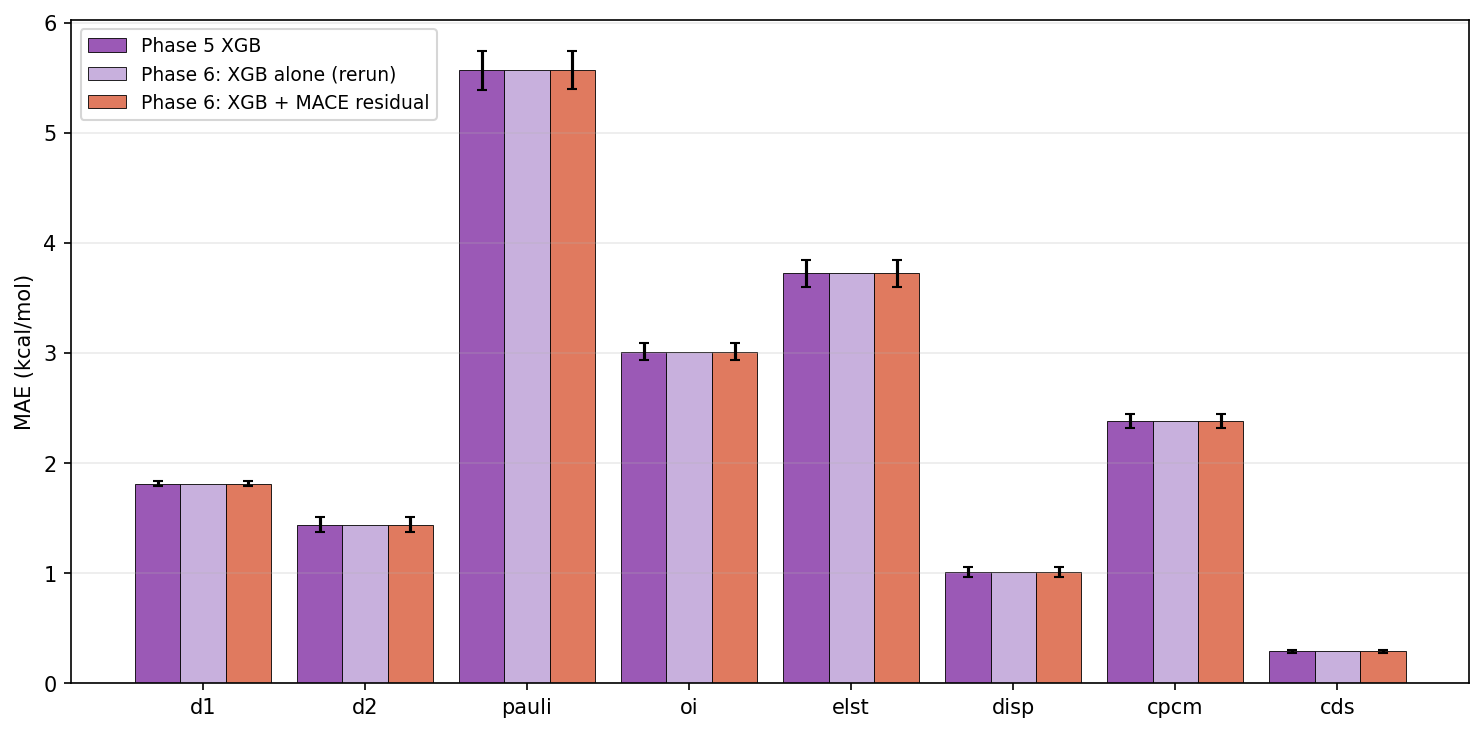
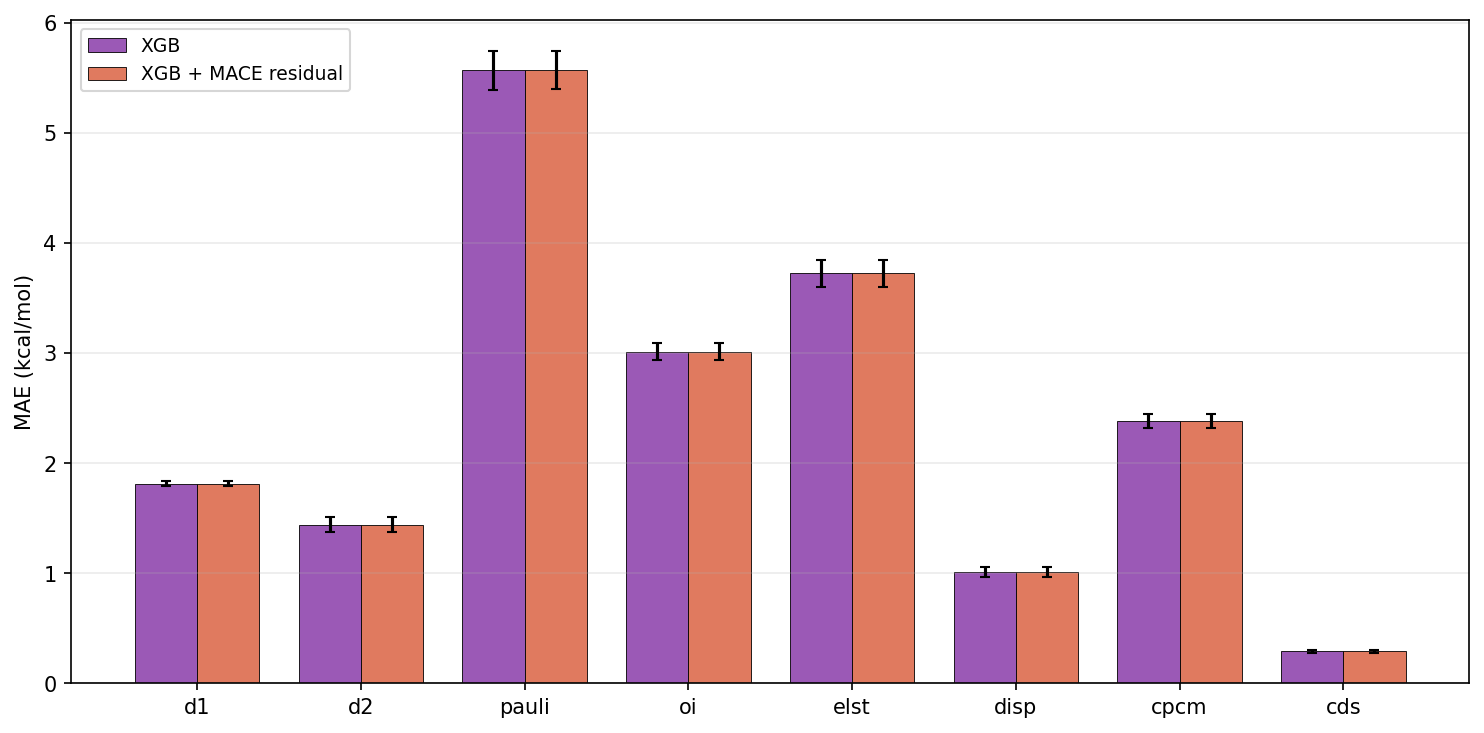
phase6 bars: drop rerun bar + strip 'Phase X' from legend
phase5_vs_phase6_bars.png now shows two bars per channel:
  XGB               (was 'Phase 5 XGB')
  XGB + MACE residual  (was 'Phase 6: XGB + MACE residual')

The redundant 'Phase 6: XGB alone (rerun)' bar (numerically identical to
Phase 5 XGB by construction) is removed.

diff --git a/analysis/bath1480_probe/experiments/scripts/10_aggregate_phase6.py b/analysis/bath1480_probe/experiments/scripts/10_aggregate_phase6.py
@@ -74,13 +74,11 @@ def main():
     # Bar plot
     fig, ax = plt.subplots(figsize=(10, 5))
     x = np.arange(len(CHANNELS))
-    w = 0.28
-    ax.bar(x - w, merged["mae_p5"], w, yerr=merged["mae_p5_std"], color="#9b59b6",
-           label="Phase 5 XGB", edgecolor="black", linewidth=0.4, capsize=2.5)
-    ax.bar(x, merged["mae_p6_xgb_only"], w, color="#c8b0dd",
-           label="Phase 6: XGB alone (rerun)", edgecolor="black", linewidth=0.4)
-    ax.bar(x + w, merged["mae_p6_full"], w, yerr=merged["mae_p6_full_std"], color="#e07a5f",
-           label="Phase 6: XGB + MACE residual", edgecolor="black", linewidth=0.4, capsize=2.5)
+    w = 0.38
+    ax.bar(x - w/2, merged["mae_p5"], w, yerr=merged["mae_p5_std"], color="#9b59b6",
+           label="XGB", edgecolor="black", linewidth=0.4, capsize=2.5)
+    ax.bar(x + w/2, merged["mae_p6_full"], w, yerr=merged["mae_p6_full_std"], color="#e07a5f",
+           label="XGB + MACE residual", edgecolor="black", linewidth=0.4, capsize=2.5)
     ax.set_xticks(x); ax.set_xticklabels(CHANNELS, fontsize=10)
     ax.set_ylabel("MAE (kcal/mol)")
     ax.grid(axis="y", alpha=0.25)
